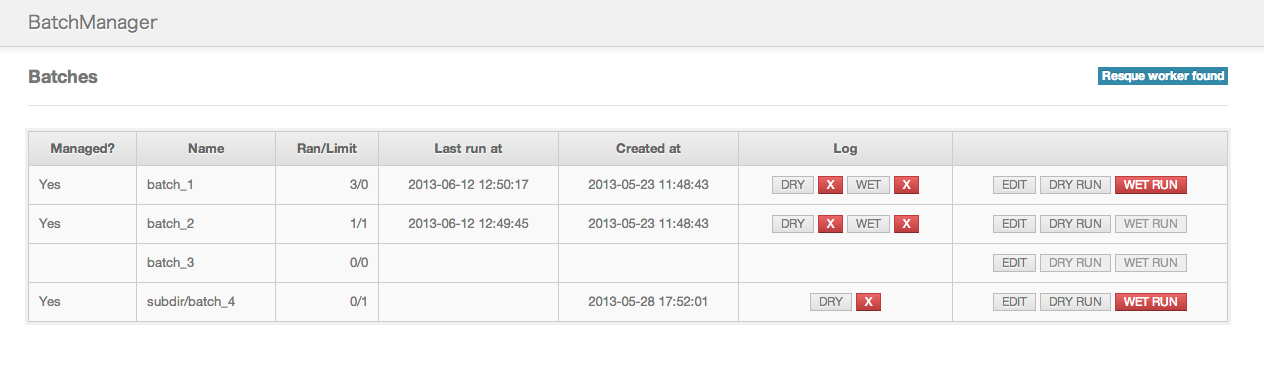
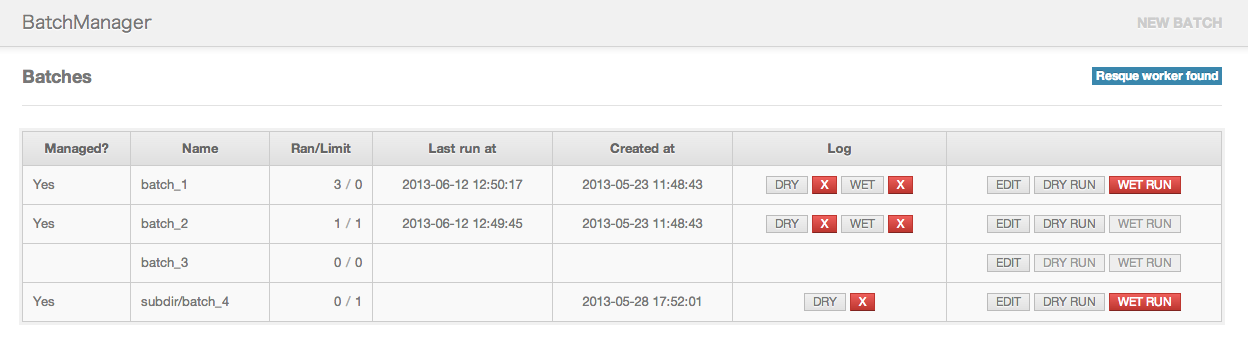
new batch file from web interface

diff --git a/app/assets/stylesheets/batch_manager/application.css b/app/assets/stylesheets/batch_manager/application.css
@@ -43,14 +43,59 @@ header h1 {
   font-size: 18px;
   line-height: 36px;
   font-weight: normal;
-  color: #777777;
   text-shadow: 0 1px 0 #ffffff;
+}
+
+header h1 a {
+  color: #777777;
+  text-decoration: none;
+}
+
+header .new_link {
+  float: right;
+  font-size: 14px;
+  line-height: 36px;
+  font-weight: bold;
+}
+
+header .new_link a {
+  color: #ccc;
+  text-shadow: 0 1px 1px #ffffff;
+  text-decoration: none;
+}
+
+header .new_link a:hover {
+  color: #aaa;
+  text-decoration: underline;
 }
 
 .title {
   padding-bottom: 20px;
   margin-bottom: 25px;
   border-bottom: 1px solid #e2e2e2;
+}
+
+.title .new_batch {
+  color: #aaa;
+  line-height: 22px;
+}
+
+.title input {
+  margin: 0;
+  margin-top: -2px;
+  padding: 2px 5px;
+  font-size: 14px;
+  line-height: 18px;
+  width: 250px;
+  background-color: #ffffff;
+  border: 1px solid #cccccc;
+  color: #555;
+  -webkit-box-shadow: inset 0 1px 1px rgba(0, 0, 0, 0.075);
+  -moz-box-shadow: inset 0 1px 1px rgba(0, 0, 0, 0.075);
+  box-shadow: inset 0 1px 1px rgba(0, 0, 0, 0.075);
+  -webkit-transition: border linear 0.2s, box-shadow linear 0.2s;
+  -moz-transition: border linear 0.2s, box-shadow linear 0.2s;
+  transition: border linear 0.2s, box-shadow linear 0.2s;
 }
 
 h2 {
@@ -84,6 +129,11 @@ a.cancel {
 a.cancel:hover {
   color: #999;
   text-decoration: underline;
+}
+
+.divider {
+  padding: 0 5px;
+  color: #aaa;
 }
 
 footer {

diff --git a/app/assets/stylesheets/batch_manager/notice.css b/app/assets/stylesheets/batch_manager/notice.css
@@ -1,24 +1,17 @@
 .alert {
-  padding: 8px 35px 8px 14px;
+  border-bottom: 1px solid #e2e2e2;
   margin: 20px auto;
+  padding-bottom: 20px;
   text-shadow: 0 1px 0 rgba(255, 255, 255, 0.5);
-  background-color: #fcf8e3;
-  border: 1px solid #fbeed5;
-  -webkit-border-radius: 4px;
-  -moz-border-radius: 4px;
-  border-radius: 4px;
-  width: 600px;
   text-align: center;
+  font-weight: bold;
+  font-size: 15px;
 }
 
 .alert.notice {
   color: #468847;
-  background-color: #dff0d8;
-  border-color: #d6e9c6;
 }
 
 .alert.error {
   color: #b94a48;
-  background-color: #f2dede;
-  border-color: #eed3d7;
 }

diff --git a/app/controllers/batch_manager/batches_controller.rb b/app/controllers/batch_manager/batches_controller.rb
@@ -1,12 +1,32 @@
+require 'generators/batch/batch_generator'
+
 module BatchManager
   class BatchesController < ApplicationController
     include BatchManager::Utils
-    before_filter :retain_batch_params, :except => [:index]
+    before_filter :retain_batch_params, :except => [:index, :new, :create]
     helper_method :escape_batch_name
 
     def index
       @resque_supported = resque_supported?
       @details = BatchManager::Monitor.details
+    end
+
+    def new
+      template = File.read(File.join(Rails::Generators::BatchGenerator.source_root, "batch.rb"))
+      @content = ERB.new(template).result(binding)
+    end
+
+    def create
+      batch_name = params[:batch_name]
+      if batch_name.blank?
+        flash[:error] = "Please input the batch name."
+        redirect_to(new_batch_url) and return 
+      end
+      file_path = File.join(BatchManager.batch_dir, batch_name)
+      file_path << ".rb" unless file_path.end_with?(".rb")
+      FileUtils.mkdir_p(File.dirname(file_path)) if batch_name.include?("/")
+      File.open(file_path, "w") { |f| f << params[:content] }
+      redirect_to(batches_url, :notice => "#{batch_name} created.")
     end
 
     def edit
